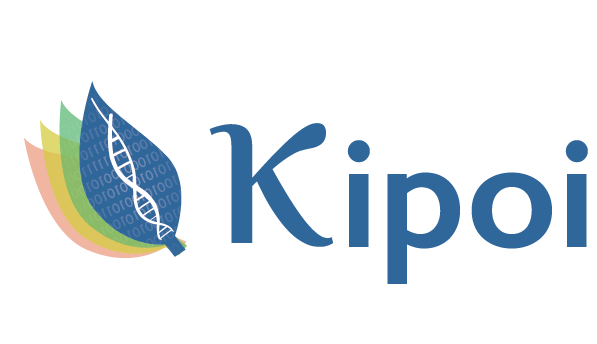
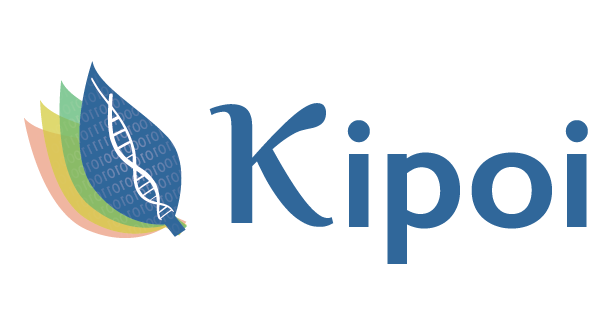
Fixed the responsiveness of title on the landing page.

diff --git a/app/models/templates/models/main.html b/app/models/templates/models/main.html
@@ -5,7 +5,14 @@
 <div class="row" style="margin-right: 0; margin-left: 0;">
   <div class="col-lg-9 mx-auto">
     <div class="row mb-4">
-      <div class="col"><img src="{{ url_for('static', filename='img/title_bar.svg')}}"  alt="Kipoi logo" height="60px"></div>
+      <div class="col media kipoi-title-box">
+        <div class="media-left">
+            <img src="{{ url_for('static', filename='img/kipoi_small.png')}}" class="media-object" alt="Kipoi logo" height="80px">
+        </div>
+        <div class="media-body">
+          <h3 class="media-heading">Model zoo for genomics</h3>
+        </div>
+      </div>
     </div>
     <div class="row mb-5">
       <div class="col-md-6 col-sm-12">

diff --git a/app/static/css/style.css b/app/static/css/style.css
@@ -214,6 +214,10 @@ hr.clearfix {
   border-color: rgba(0,0,0,.125);
 }
 
+.media-object {
+    box-shadow: none !important;
+}
+
 /* Footer */
 footer.page-footer {
   background-color: #4c5568;
